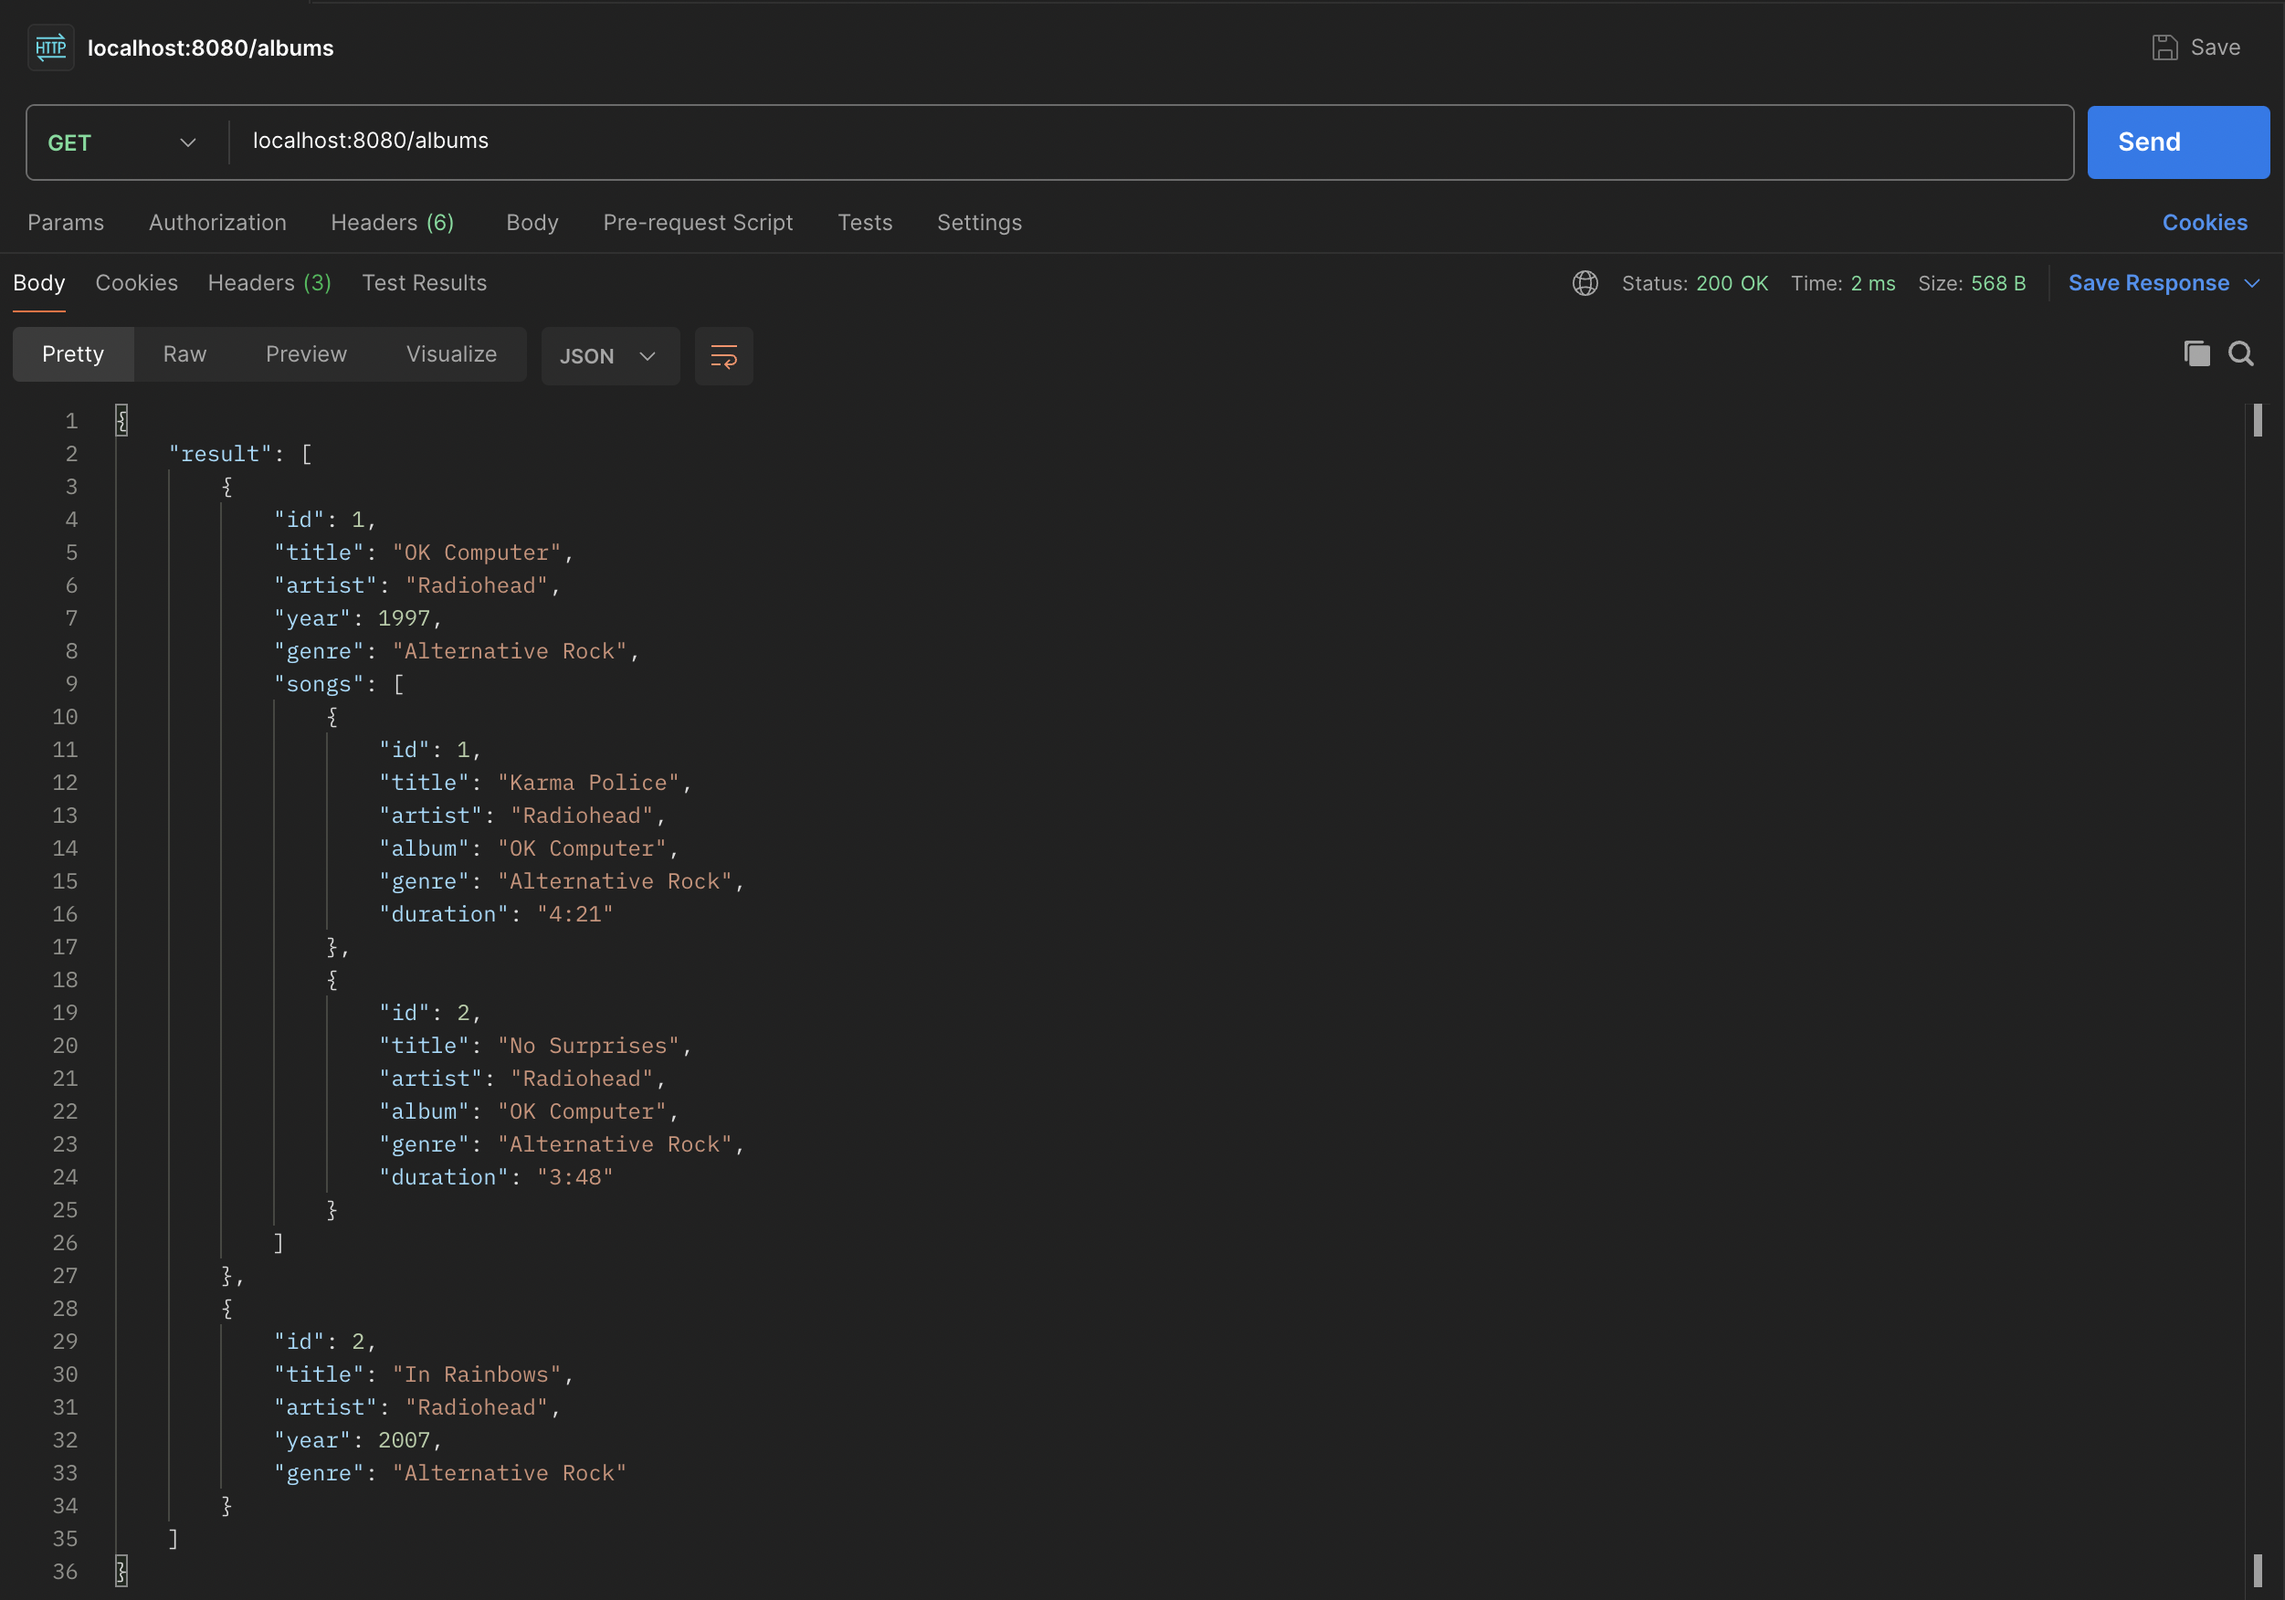
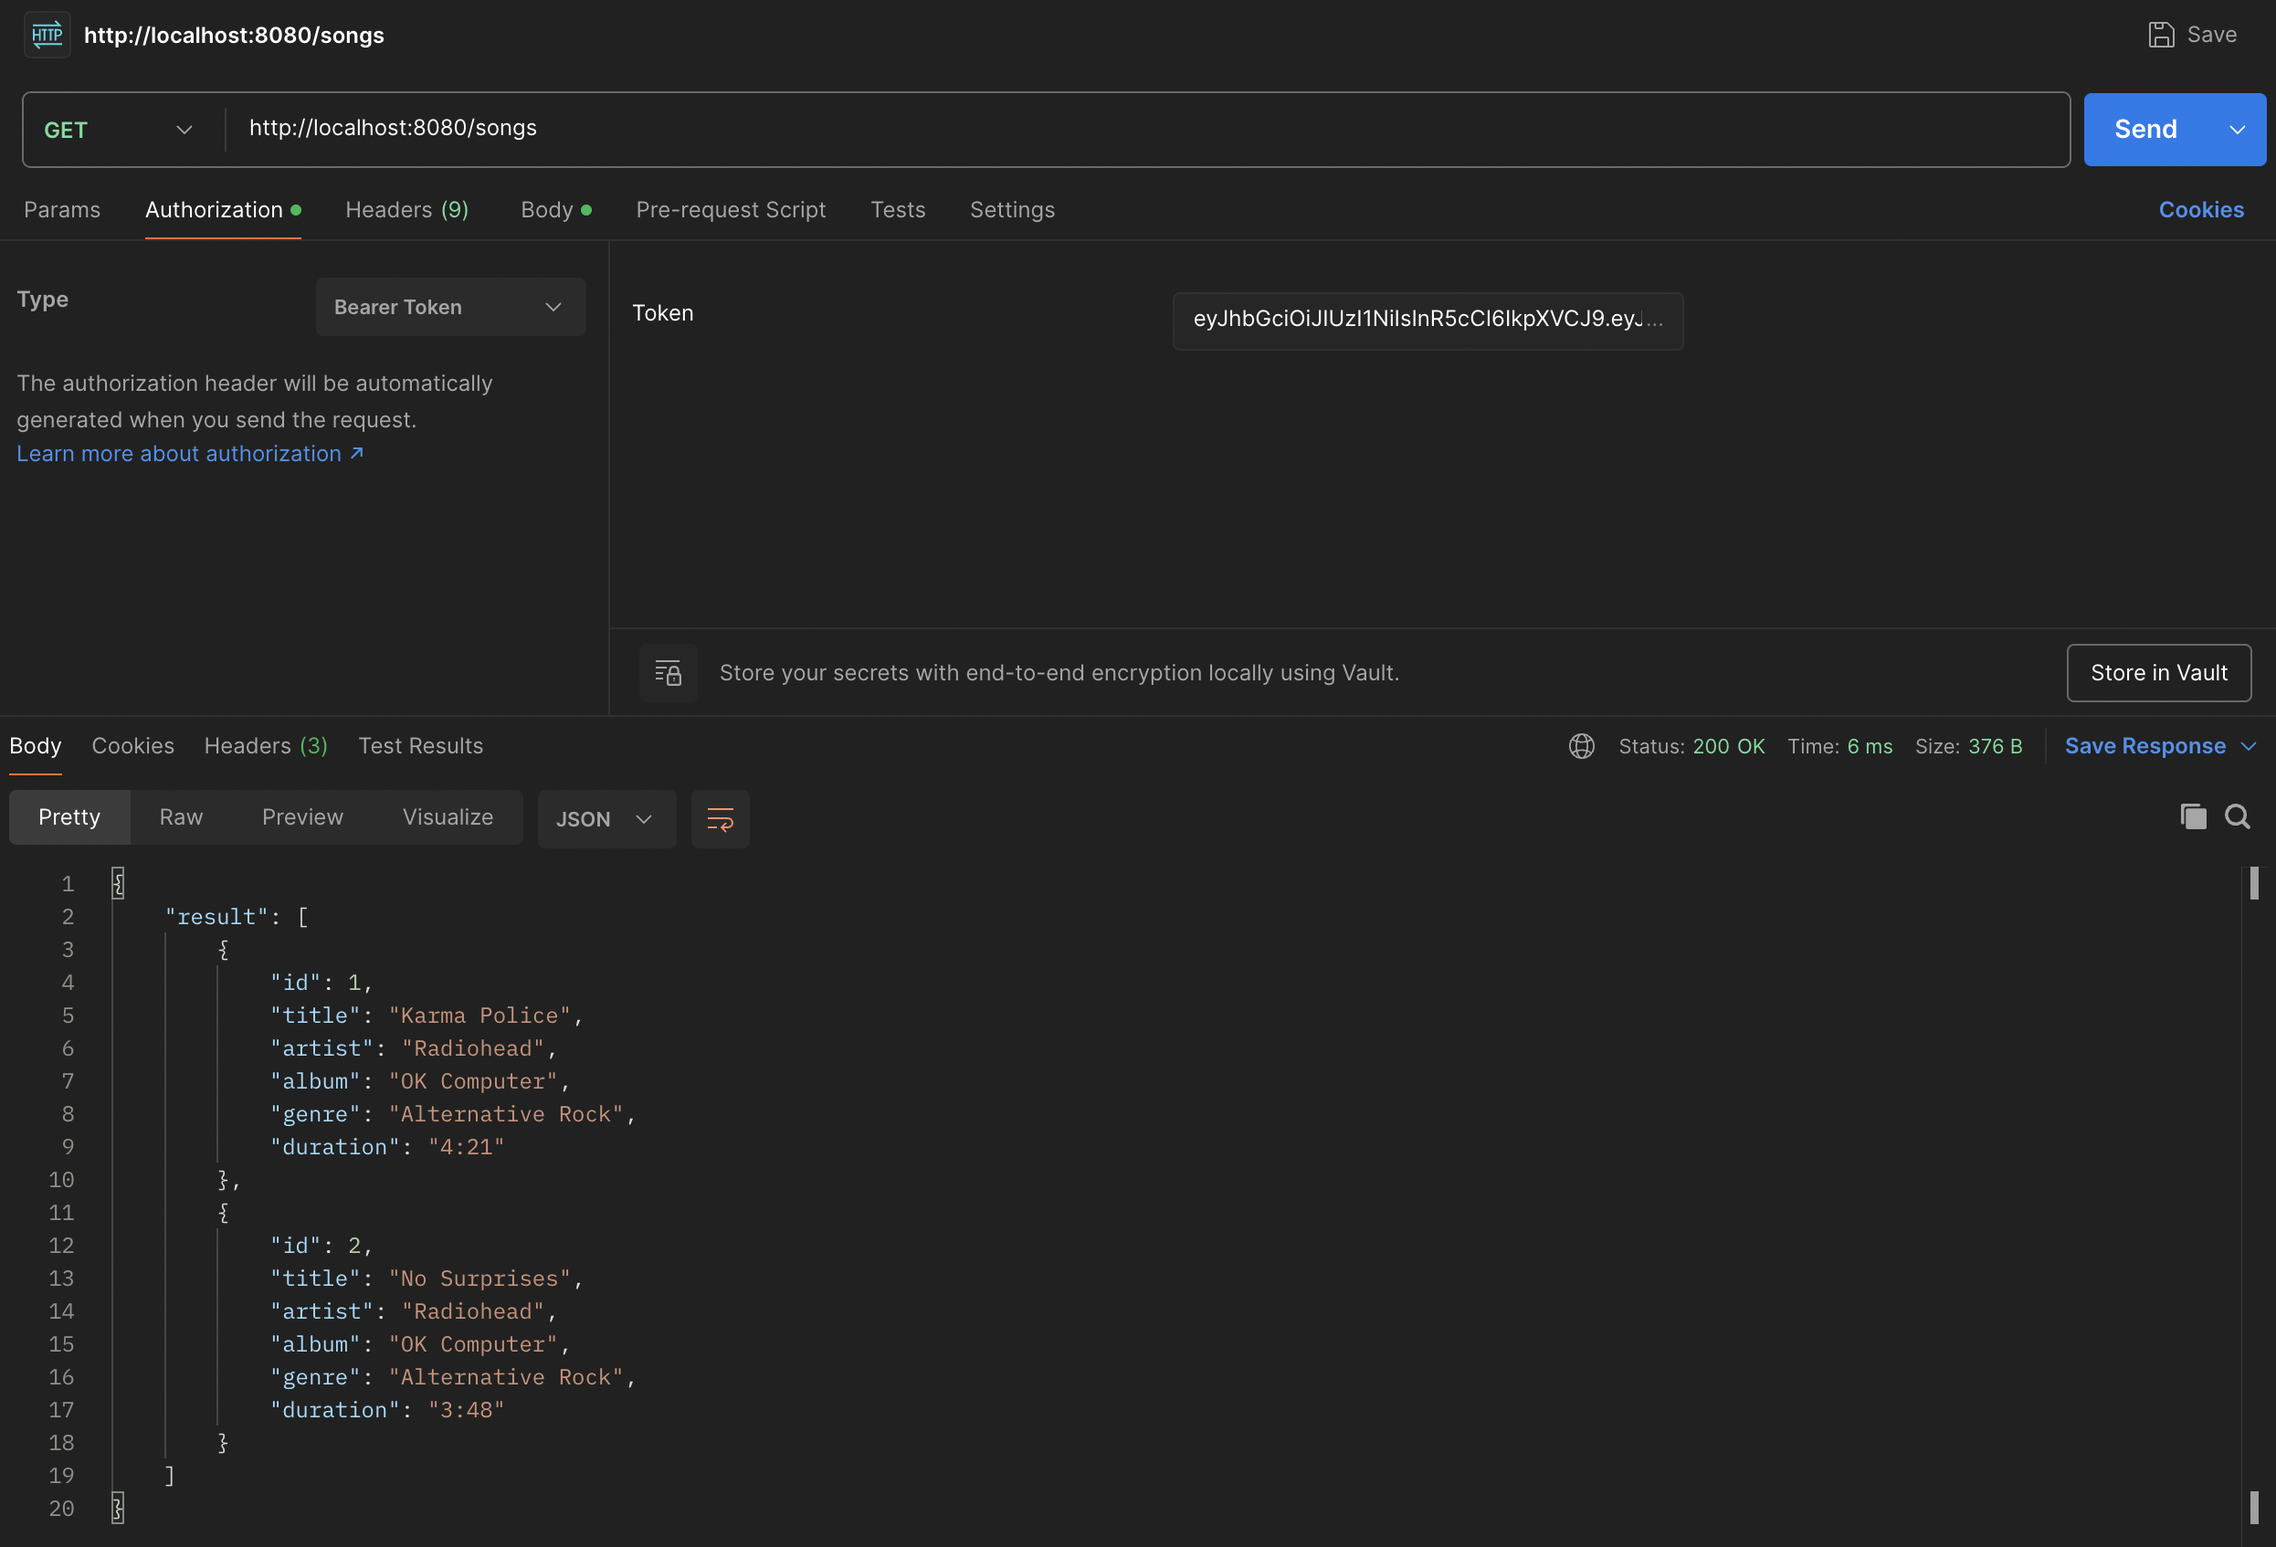
add auth

diff --git a/auth/auth.go b/auth/auth.go
@@ -1,0 +1,65 @@
+package auth
+
+import (
+	"net/http"
+	"time"
+
+	"github.com/dgrijalva/jwt-go"
+	"github.com/gin-gonic/gin"
+)
+
+var jwtKey = []byte("my_secret_key")
+
+type Credentials struct {
+	Username string `json:"username"`
+	Password string `json:"password"`
+}
+
+type Claims struct {
+	Username string `json:"username"`
+	jwt.StandardClaims
+}
+
+func GenerateToken(username string) (string, error) {
+	expirationTime := time.Now().Add(5 * time.Minute)
+	claims := &Claims{
+		Username: username,
+		StandardClaims: jwt.StandardClaims{
+			ExpiresAt: expirationTime.Unix(),
+		},
+	}
+	token := jwt.NewWithClaims(jwt.SigningMethodHS256, claims)
+	return token.SignedString(jwtKey)
+}
+
+func AuthMiddleware() gin.HandlerFunc {
+	return func(c *gin.Context) {
+		tokenString := c.GetHeader("Authorization")
+		if tokenString == "" {
+			c.JSON(http.StatusUnauthorized, gin.H{"message": "missing token"})
+			c.Abort()
+			return
+		}
+
+		if len(tokenString) < 7 || tokenString[:7] != "Bearer " {
+			c.JSON(http.StatusUnauthorized, gin.H{"message": "invalid token format"})
+			c.Abort()
+			return
+		}
+
+		tokenString = tokenString[7:]
+
+		claims := &Claims{}
+		token, err := jwt.ParseWithClaims(tokenString, claims, func(token *jwt.Token) (interface{}, error) {
+			return jwtKey, nil
+		})
+
+		if err != nil || !token.Valid {
+			c.JSON(http.StatusUnauthorized, gin.H{"message": "unauthorized"})
+			c.Abort()
+			return
+		}
+
+		c.Next()
+	}
+}

diff --git a/main.go b/main.go
@@ -1,6 +1,7 @@
 package main
 
 import (
+	"tip/auth"
 	"tip/handlers"
 
 	"github.com/gin-gonic/gin"
@@ -8,13 +9,18 @@ import (
 
 func main() {
 	r := gin.Default()
+	r.POST("/login", handlers.Login)
 
-	r.GET("/songs", handlers.GetSongs)
-	r.GET("/songs/:id", handlers.GetSongByID)
-	r.GET("/albums", handlers.GetAlbums)
-	r.GET("/albums/:id", handlers.GetAlbumByID)
-	r.GET("/artists", handlers.GetArtists)
-	r.GET("/artists/:id", handlers.GetArtistByID)
+	protected := r.Group("/")
+	protected.Use(auth.AuthMiddleware())
+	{
+		protected.GET("/songs", handlers.GetSongs)
+		protected.GET("/songs/:id", handlers.GetSongByID)
+		protected.GET("/albums", handlers.GetAlbums)
+		protected.GET("/albums/:id", handlers.GetAlbumByID)
+		protected.GET("/artists", handlers.GetArtists)
+		protected.GET("/artists/:id", handlers.GetArtistByID)
+	}
 
 	r.Run()
 }

diff --git a/handlers/authHandlers.go b/handlers/authHandlers.go
@@ -1,0 +1,31 @@
+package handlers
+
+import (
+	"net/http"
+	"tip/auth"
+
+	"github.com/gin-gonic/gin"
+)
+
+func Login(c *gin.Context) {
+	var creds auth.Credentials
+	if err := c.BindJSON(&creds); err != nil {
+		c.JSON(http.StatusBadRequest, gin.H{"message": "invalid request"})
+		return
+	}
+
+	// Здесь добавим простую проверку пароля
+	if creds.Username != "user" || creds.Password != "password" {
+		c.JSON(http.StatusUnauthorized, gin.H{"message": "unauthorized"})
+		return
+	}
+
+	token, err := auth.GenerateToken(creds.Username)
+	if err != nil {
+		c.JSON(http.StatusInternalServerError, gin.H{"message": "could not create token"})
+		return
+	}
+
+	c.JSON(http.StatusOK, gin.H{"token": token})
+}
+
